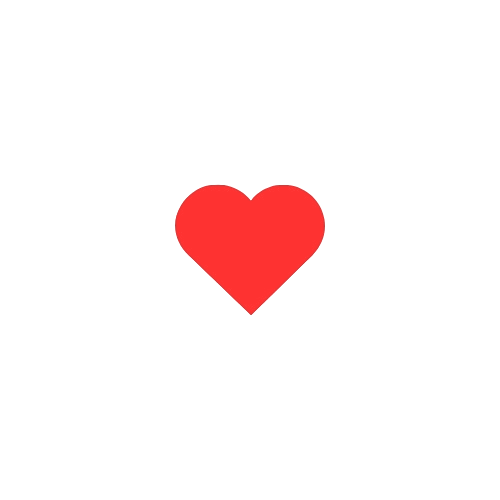
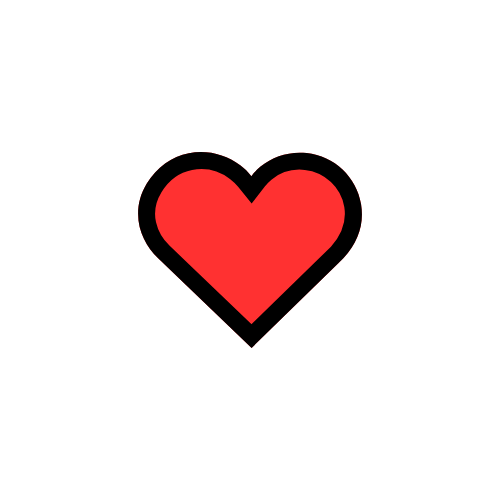
fixed like/save

Changed region(s): [[0.27, 0.3, 0.75, 0.69]]

diff --git a/client/src/views/Gallery/GallerySelection.jsx b/client/src/views/Gallery/GallerySelection.jsx
@@ -13,6 +13,10 @@ const GallerySelection = ({ posts }) => {
         {posts.map((post, index) => (
           <div className="gallery-item" key={`post-${index}`}>
             <PostPreview post={post} />
+            <div className="card-footer" style={{ bottom: 2, left: 5 }}>
+              <LikeButton />
+              <SaveButton />
+            </div>
           </div>
         ))}
 
@@ -20,6 +24,8 @@ const GallerySelection = ({ posts }) => {
           <div className="gallery-item placeholder" key={`placeholder-${index}`}>
             <div className="placeholder-content">
               <p>No content available.</p>
+            </div>
+            <div className="card-footer" style={{ bottom: 2, left: 5 }}>
               <LikeButton />
               <SaveButton />
             </div>

diff --git a/client/src/components/GalleryCards/saveButton.jsx b/client/src/components/GalleryCards/saveButton.jsx
@@ -18,10 +18,11 @@ const SaveButton = () => {
     border: 'none',
     cursor: 'pointer',
     backgroundImage: `url(${imageSource})`,
-    backgroundSize: 'cover',
+    backgroundSize: 'contain',
     backgroundRepeat: 'no-repeat',
+    backgroundColor: 'transparent', 
   };
-
+  
   return (
     <button style={buttonStyle} onClick={handleSave}></button>
   );

diff --git a/client/src/components/GalleryCards/likeButton.jsx b/client/src/components/GalleryCards/likeButton.jsx
@@ -18,9 +18,11 @@ const LikeButton = () => {
     border: 'none',
     cursor: 'pointer',
     backgroundImage: `url(${imageSource})`,
-    backgroundSize: 'cover',
+    backgroundSize: 'contain',
     backgroundRepeat: 'no-repeat',
+    backgroundColor: 'transparent', 
   };
+  
 
   return (
     <button style={buttonStyle} onClick={handleLike}></button>

diff --git a/client/src/views/Gallery/GallerySelection.less b/client/src/views/Gallery/GallerySelection.less
@@ -44,3 +44,10 @@
   height: 100%;
   text-align: center;
 }
+
+.card-footer {
+  bottom: 10px; 
+  left: 10px; 
+  display: flex;
+  gap: 5px; 
+}
